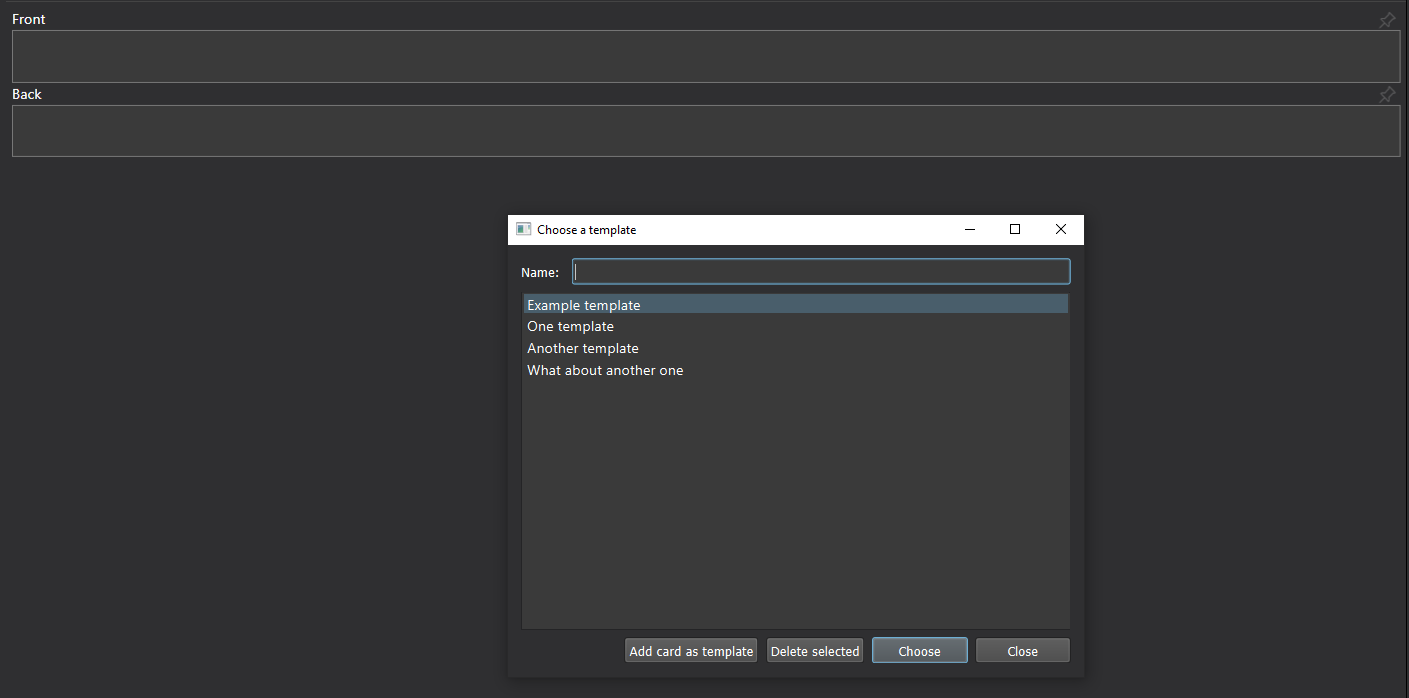
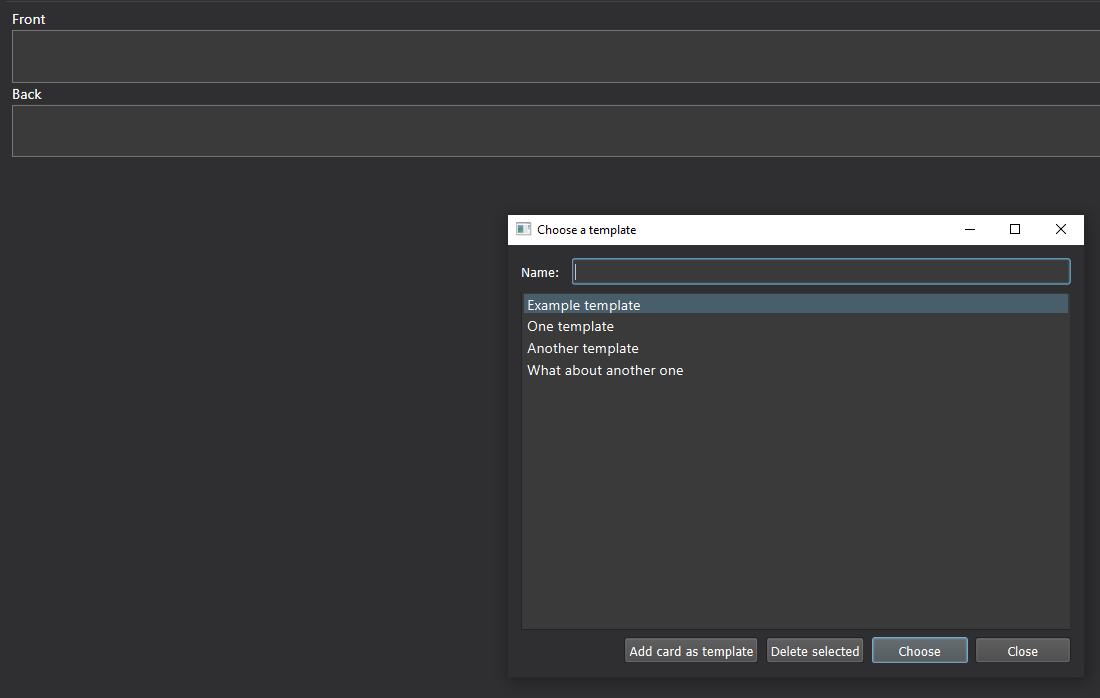
Updated description

diff --git a/docs/DESCRIPTION.html b/docs/DESCRIPTION.html
@@ -1,6 +1,8 @@
 Allows you to create <b>card templates</b> that you can pick in the editor in <i>juste 2 keystrokes</i>. This is especially useful if you create a lot of cards with a similar layout: you don't need to copy/paste fields anymore.
 <b>Important: </b> Cards are grouped by note type, so for example you can't use a <i>Cloze</i> card template when <i>Basic</i> is selected in the editor.
 
+<img src="https://github.com/GKylian/card_templates/blob/11207b774d539c18208b9cca7e861f1e63cde6ad/docs/before_template.png">
+<img src="https://github.com/GKylian/card_templates/blob/11207b774d539c18208b9cca7e861f1e63cde6ad/docs/after_template.png">
 
 <b>HOW TO USE A TEMPLATE: </b> in the editor, click on the template button (or use the shortcut: <b>Ctrl+T</b> by default). Navigate between templates with the up/down arrow keys, filter them by name. <b>Apply the selected template</b> with <b>Enter</b> (or the choose button).
 
